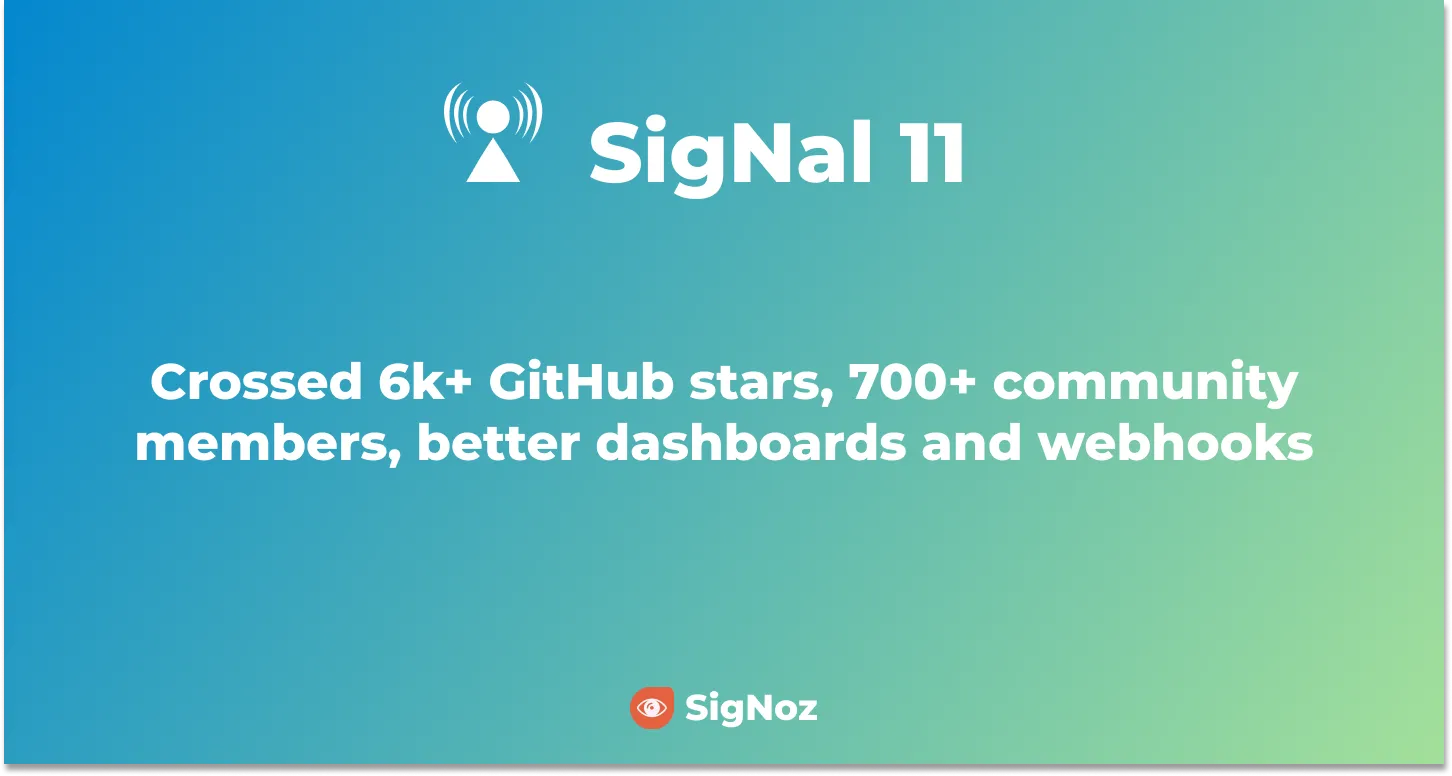
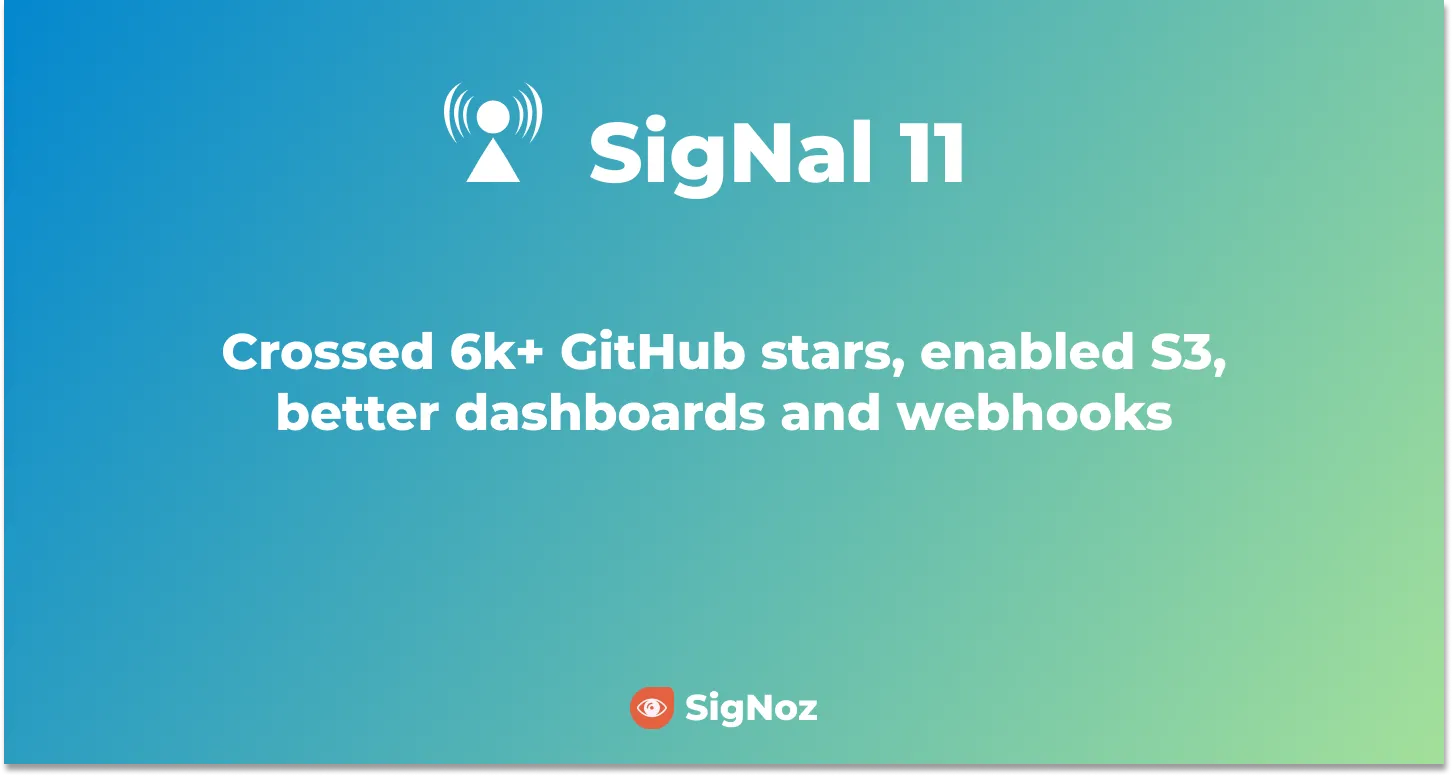
Made suggested changes

Changed region(s): [[0.093, 0.433, 0.9298, 0.6186]]

diff --git a/blog/2022-04-06-signal-11.md b/blog/2022-04-06-signal-11.md
@@ -1,5 +1,5 @@
 ---
-title: Crossed 6k+ GitHub stars, 700+ community members, better dashboards and webhooks - SigNal 11
+title: Crossed 6k+ GitHub stars, enabled S3, better dashboards and webhooks - SigNal 11
 slug: community-update-11
 date: 2022-04-06
 tags: [product-updates, community]
@@ -16,9 +16,11 @@ keywords:
   <link rel="canonical" href="https://signoz.io/blog/community-update-11/"/>
 </head>
 
-*People ignore design that ignores people.*
+> *People ignore design that ignores people.*
 
-Yes, and so we have been busy fine-tuning our dashboards to make them more user-friendly. Welcome to SigNal 11 - our monthly product updates where we update you on what we’ve been up to.
+Our dashboards enable engineering teams to take quick decisions. So, a good design is critical.
+
+We have been busy fine-tuning our dashboards to make them more user-friendly. Welcome to SigNal 11 - our monthly product updates where we update you on what we’ve been up to.
 
 <!--truncate-->
 
@@ -28,9 +30,10 @@ Last month, we crossed 6,000+ GitHub stars, 700+ slack community members, jazzed
 
 ## What we shipped?
 
-Latest SigNoz release
+Releases done last month:
 
-**[v0.7.4](https://github.com/SigNoz/signoz/releases/tag/v0.7.4)**
+**[v0.7.4](https://github.com/SigNoz/signoz/releases/tag/v0.7.4)**<br></br>
+**[v0.7.5](https://github.com/SigNoz/signoz/releases/tag/v0.7.5)**
 
 ### New Y-axis units for all our charts
 
@@ -78,6 +81,21 @@ Now you can integrate SigNoz alerts with popular technologies like PagerDuty sea
 
 <!-- ### Enabled S3 for long term data retention -->
 
+### Enabled S3 for long term data retention
+
+Relevant PR:<br></br>
+[feat(query-service): Add cold storage support in getTTL API](https://github.com/SigNoz/signoz/pull/922)
+
+We have enabled S3 for long term data retention. Now you can set your S3 bucket in SigNoz, and not worry about running out of disk space.
+
+<Screenshot
+   alt="Enable S3 for long term data retention"
+   height={500}
+   src="/img/blog/2022/04/s3_bucket.webp"
+   width={700}
+/>
+
+
 ## Featured Issue
 
 [Deploying SigNoz in large-scale production environments](https://github.com/SigNoz/signoz/issues/940)
@@ -103,6 +121,9 @@ A sneak peek into the design of our org management 👇
 />
 
 ### Trace Dashboards Performance Improvement
+
+Relevant GitHub issue:<br></br>
+[feat: query spans_table to fetch trace details](https://github.com/SigNoz/signoz/pull/838)
 
 Our team is working on optimizing the performance of our trace dashboards. As an observability tool, our dashboards will handle a huge scale of data. We use ClickHouse as our database, a very fast OLAP datastore, and we want our query service that runs on top of ClickHouse optimized for greater scale.
 
